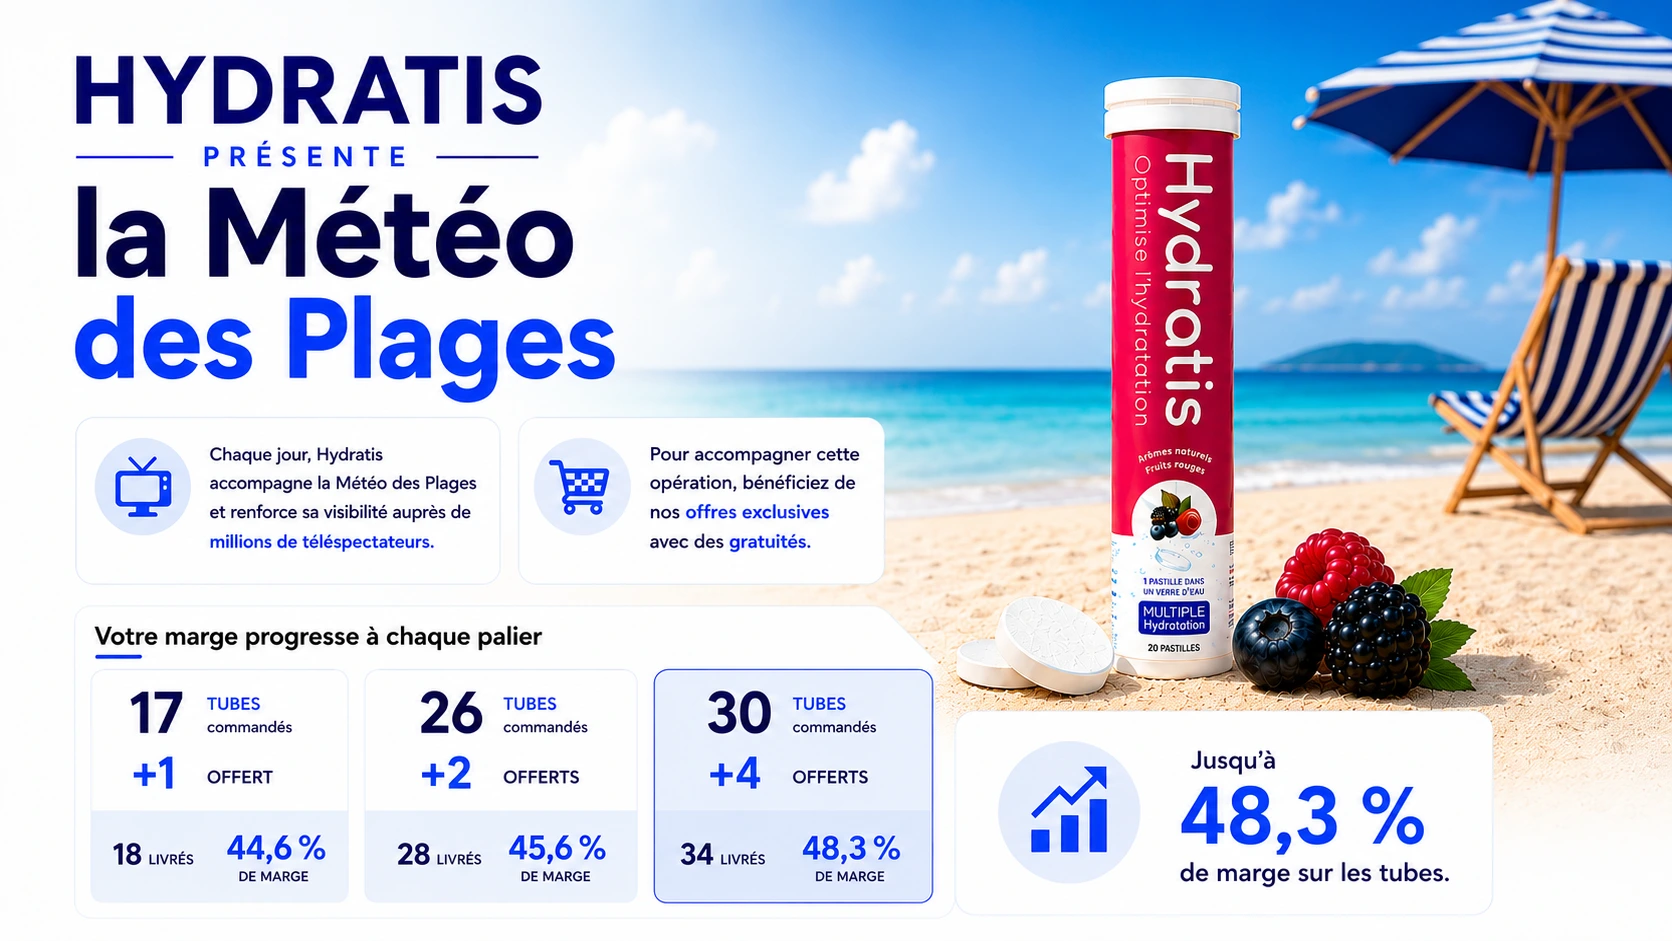
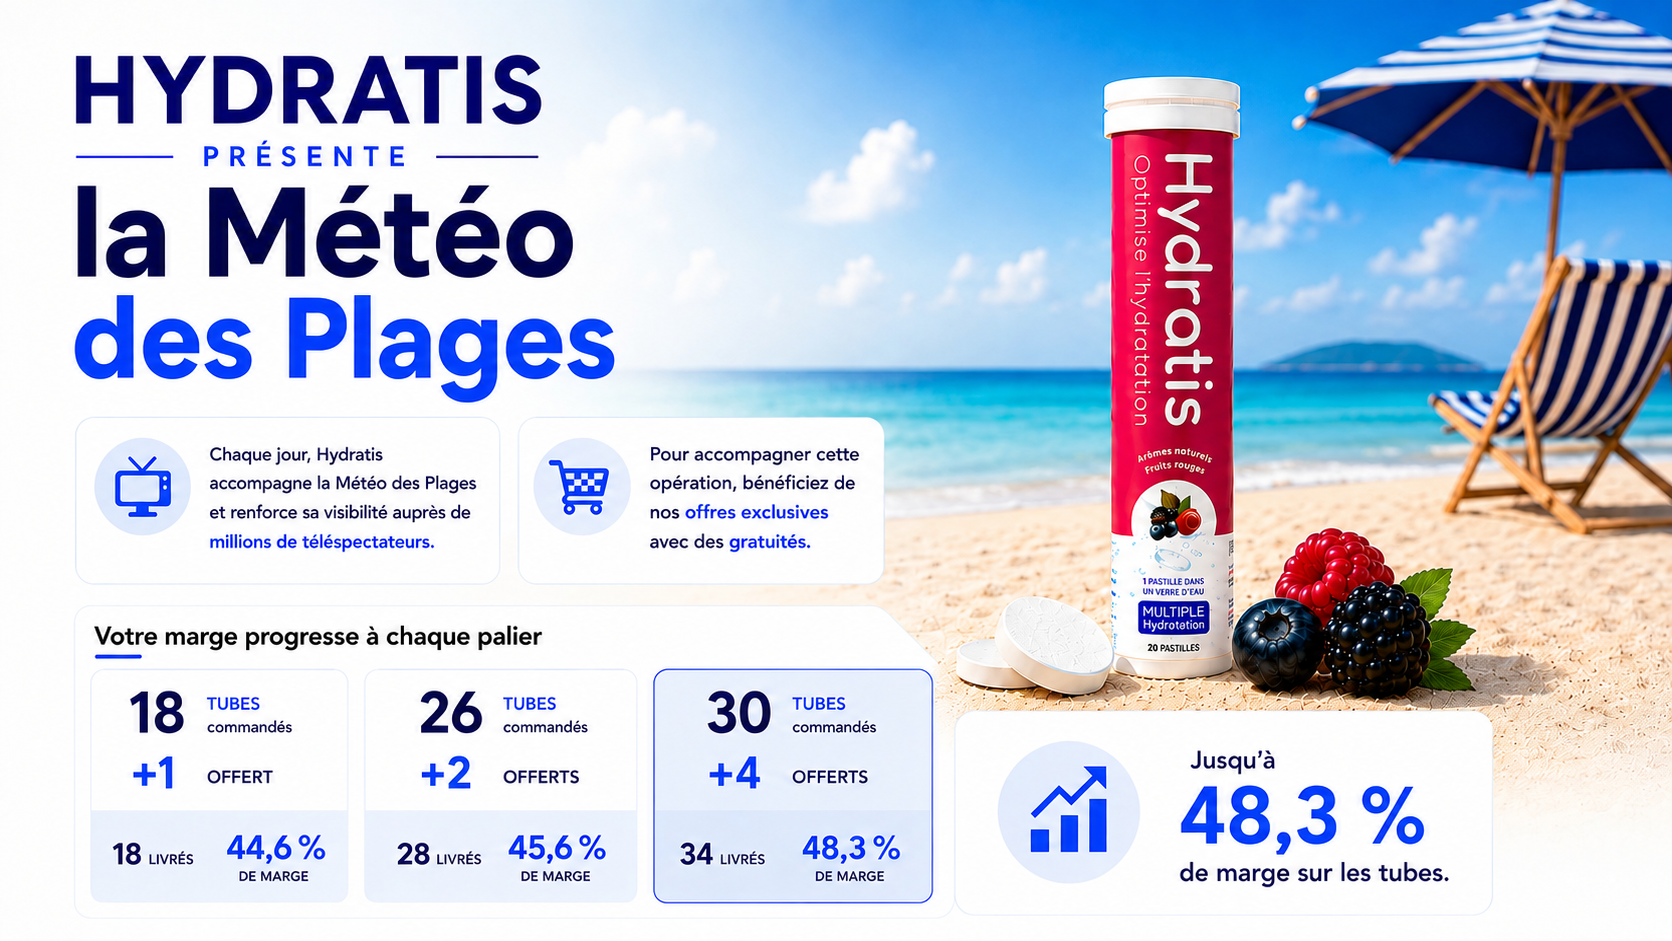
Add files via upload

diff --git a/index.html b/index.html
@@ -488,7 +488,7 @@
     <div style="border-radius:16px;overflow:hidden;box-shadow:var(--ombre);">
       <picture>
         <source media="(min-width:640px)" srcset="Images/op-tubes-pc.webp">
-        <img src="Images/tubes-mobile.webp" alt="Offre tubes" style="width:100%;height:auto;display:block;cursor:pointer;" onclick="openImage(this.currentSrc)">
+        <img src="Images/offre-tube.webp" alt="Offre tubes" style="width:100%;height:auto;display:block;cursor:pointer;" onclick="openImage(this.currentSrc)">
       </picture>
     </div>
   </div>